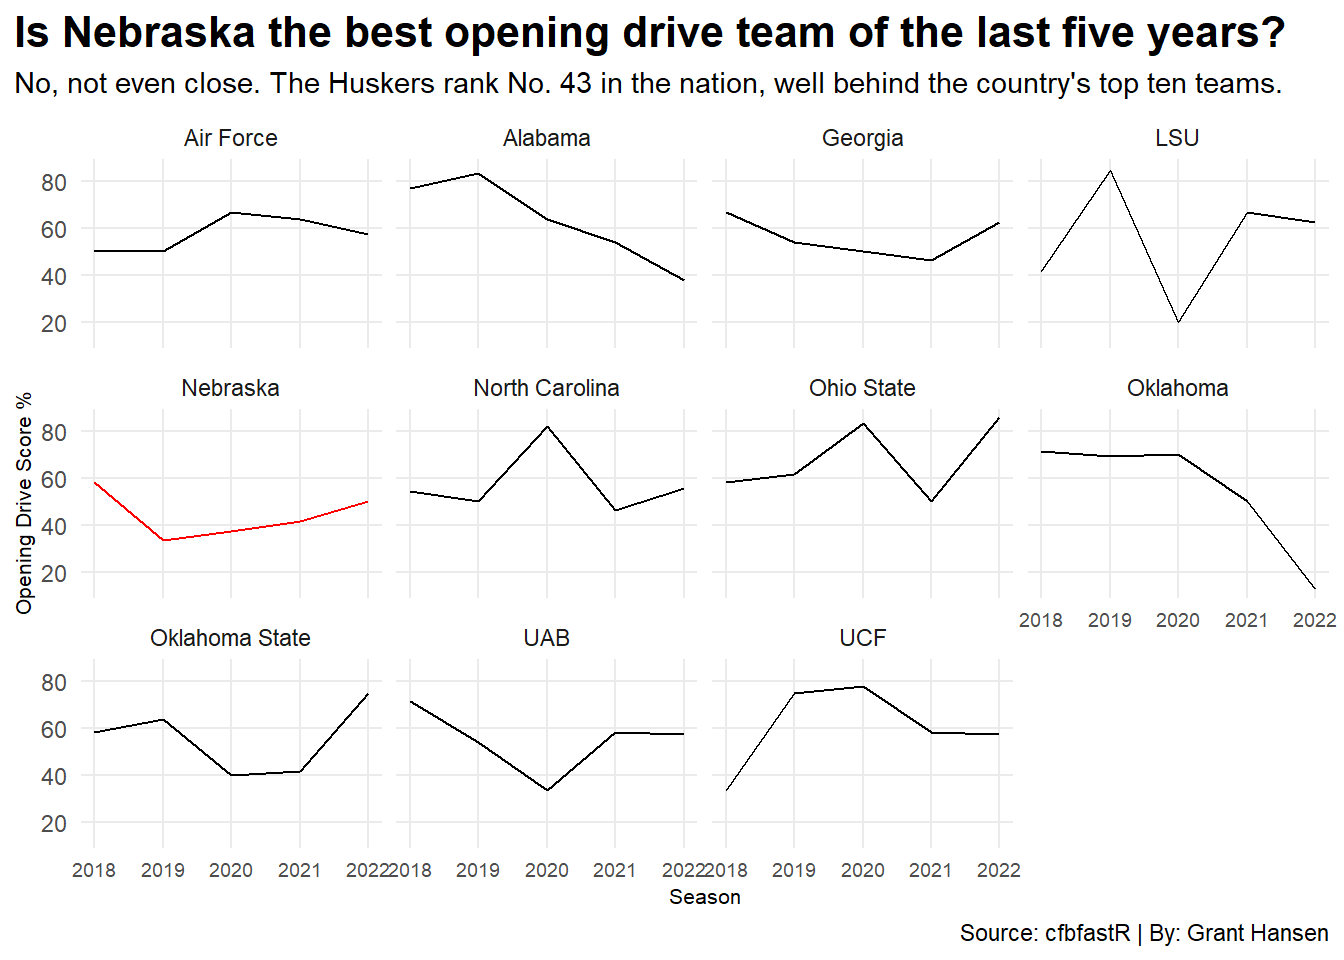
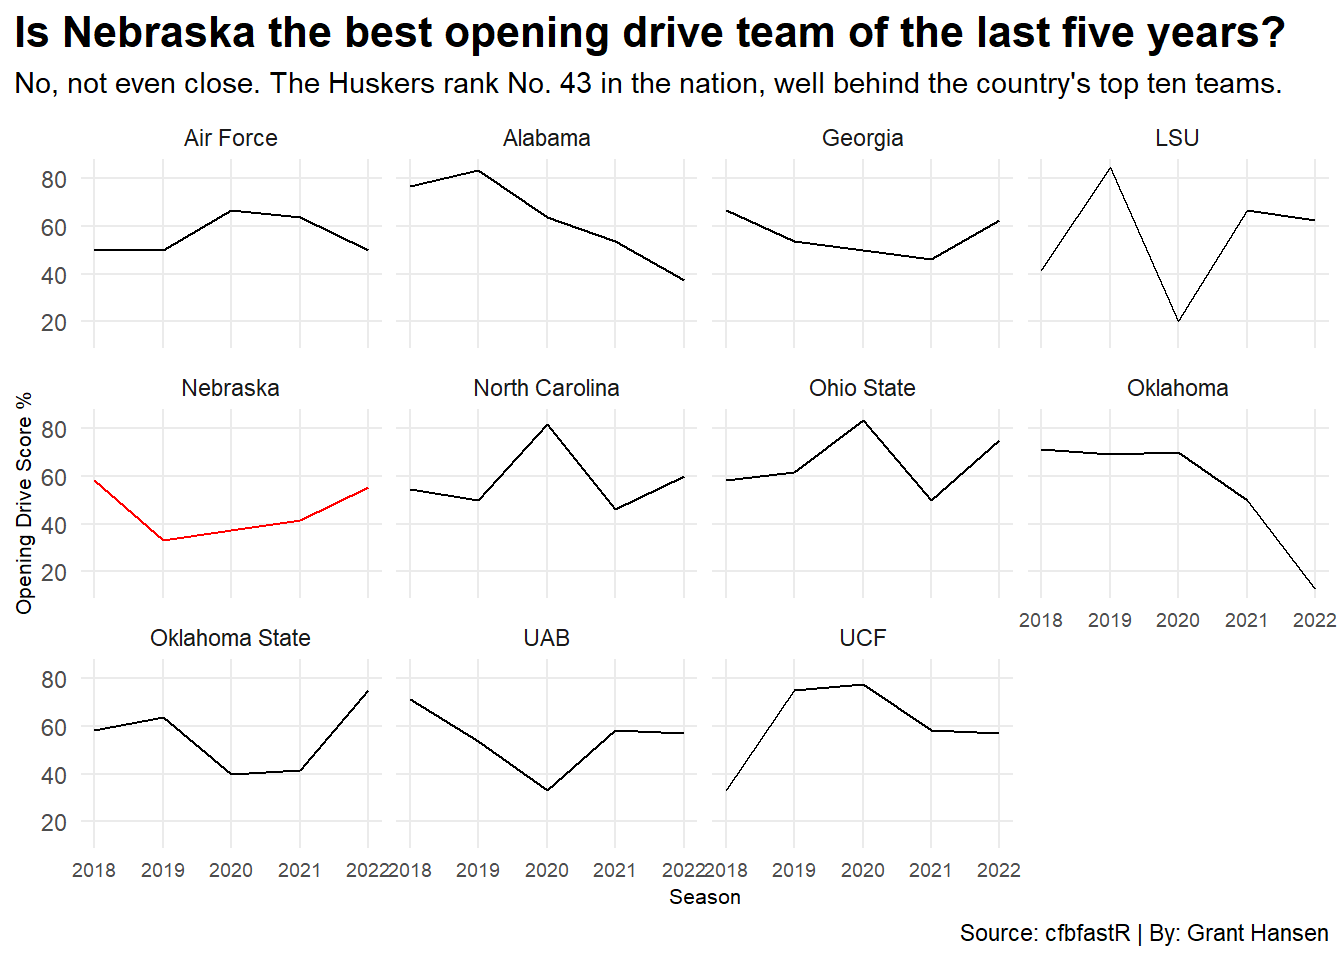
Final Draft Project

diff --git a/posts/the-frost-first-drive-effect/index.html b/posts/the-frost-first-drive-effect/index.html
@@ -206,7 +206,11 @@ code span.wa { color: #60a0b0; font-weight: bold; font-style: italic; } /* Warni
 
 
 
-<p>Test! Scott Frost could really write an opening drive script.</p>
+<p>Nebraska football is incredible on it’s opening drives.</p>
+<p>That’s a statement that likely every Husker fan who has followed the program closely in the last five years would agree with. Who could forget the first drive against Ohio State in 2018? Or the glorious four-play explosion of offense on the opening drive in the 2020 trip to Columbus that was punctuated by a Luke McCaffery 47 yard run? Or perhaps last week’s loss to Minnesota?</p>
+<p>All of these instances have two things in common. Nebraska appeared to be invincible on script. Once the Huskers got off, they couldn’t sustain any momentum. They lost.</p>
+<p>So is the first drive mayhem that was a major piece of the Scott Frost era real? Is it just a myth based in recency bias and dashed expectations?</p>
+<p>Well, the answer is somewhere in between.</p>
 <div class="cell">
 <details>
 <summary>Code</summary>
@@ -288,7 +292,10 @@ code span.wa { color: #60a0b0; font-weight: bold; font-style: italic; } /* Warni
 <p><img src="index_files/figure-html/unnamed-chunk-1-1.png" class="img-fluid" width="672"></p>
 </div>
 </div>
-<p>More text! Look Nebraksa wasn’t as good as we thought! LSU 2019-2020!</p>
+<p>Let’s begin by taking Nebraska’s opening drive score rate throughout the last five years. Any instance of points scored on a team’s first offensive drive counts as an opening drive score (ODS).</p>
+<p>The Huskers are No.&nbsp;43 in the country. Certainly not in the bottom half of the FBS, but not good either. Nebraska isn’t the opening drive juggernaut that they can at times seem to be. That’s especially true when compared to the top ten teams of the last five seasons.</p>
+<p>There are plenty of programs in here that aren’t a surprise such as Alabama and Ohio State. UCF is particularly impressive because of the coaching turnover present in Orlando. It’s also blatantly obvious that LSU suffered a major drop-off from 2019 to 2020 (I wonder why that would be?).</p>
+<p>All in all, the Huskers just aren’t special here despite a great 2018 for opening drive scores.</p>
 <div class="cell">
 <details>
 <summary>Code</summary>
@@ -362,7 +369,11 @@ code span.wa { color: #60a0b0; font-weight: bold; font-style: italic; } /* Warni
 <p><img src="index_files/figure-html/unnamed-chunk-2-1.png" class="img-fluid" width="672"></p>
 </div>
 </div>
-<p>Nebraska is under performing by this metric.</p>
+<p>Let’s check this metric against the most important stat in sports, win percentage.</p>
+<p>It probably doesn’t come as a shock to many to see that Nebraska is underperforming here too. Using the fit line, one could predict that Nebraska should be winning roughly 70% of its games based on its ODS.</p>
+<p>It’s difficult to say if scoring on a first drive is something that good teams do, or something that helps teams win with a higher frequency. The former seems much more likely in this scribe’s opinion. But with everything, there are always outliers.</p>
+<p>Iowa and Michigan are great examples of teams that have struggled mightily on opening drives but continue to win at a high level. San Diego State and Georgia Southern are more extreme examples although they do play in an inferior conference.</p>
+<p>Nebraska is on the opposite side of the chart to those programs. Not good.</p>
 <div class="cell">
 <details>
 <summary>Code</summary>
@@ -450,7 +461,14 @@ code span.wa { color: #60a0b0; font-weight: bold; font-style: italic; } /* Warni
 <p><img src="index_files/figure-html/unnamed-chunk-3-1.png" class="img-fluid" width="672"></p>
 </div>
 </div>
-<p>Nebraska is not doing well here either.</p>
+<p>Let’s take a measurement of Nebraska’s opening drive hangover.</p>
+<p>It’s coming. Everyone in Memorial Stadium can sense it each week. They’ve been conditioned.</p>
+<p>Once Nebraska scores, it takes the Huskers on average 4.3 drives to score again. Adjustment from the script that is practiced throughout the week to the regular course of the game is…difficult. There are three teams that have a worse ODS than Nebraska, but are much more capable of scoring again after a first-drive score. Those teams are Iowa, Michigan and Georgia Southern.</p>
+<p>So, is the Frost Era First Drive Effect real?</p>
+<p>The answer is, yes. Mostly. Nebraska isn’t the best in the country on opening drives but the crash that follows the good openers is very very real.</p>
+<p>By far, Nebraska has scored a touchdown on their opening drive more than any other outcome in the last five seasons. The Huskers have had no issue scoring on the first drive either. That’s great.</p>
+<p>The two most damning numbers are the difference between Nebraska’s ODS and the fit line, and that it takes Nebraska over four drives (almost a quarter) to score again.</p>
+<p>It’s indicative of the failures brought to bear by the Husker coaching staff in the last few years. Failures to support the team off script and failure to adjust.</p>
 
 
 

diff --git a/index.html b/index.html
@@ -7,7 +7,7 @@
 <meta name="viewport" content="width=device-width, initial-scale=1.0, user-scalable=yes">
 
 
-<title>Hansen’s Data Collection - Hansen Blog 2</title>
+<title>Hansen’s Data Collection</title>
 <style>
 code{white-space: pre-wrap;}
 span.smallcaps{font-variant: small-caps;}
@@ -134,7 +134,7 @@ ul.task-list li input[type="checkbox"] {
 <header id="title-block-header" class="quarto-title-block default page-columns page-full">
   <div class="quarto-title-banner page-columns page-full">
     <div class="quarto-title column-page-left">
-      <h1 class="title">Hansen Blog 2</h1>
+      <h1 class="title">Hansen’s Data Collection</h1>
                       </div>
   </div>
     
@@ -164,7 +164,7 @@ ul.task-list li input[type="checkbox"] {
 
 <div class="quarto-listing quarto-listing-container-default" id="listing-listing">
 <div class="list quarto-listing-default">
-<div class="quarto-post image-right" data-index="0" data-categories="huskers,code,analysis" data-listing-date-sort="1667800800000" data-listing-file-modified-sort="1667579618419" data-listing-reading-time-sort="4.335">
+<div class="quarto-post image-right" data-index="0" data-categories="huskers,code,analysis" data-listing-date-sort="1667800800000" data-listing-file-modified-sort="1667686634377" data-listing-reading-time-sort="7.32">
 <div class="thumbnail">
 <p><a href="./posts/the-frost-first-drive-effect/index.html"> <img src="./posts/the-frost-first-drive-effect/image.png" class="thumnail-image"> </a></p>
 </div>
@@ -190,7 +190,7 @@ analysis
 </div>
 <a href="./posts/the-frost-first-drive-effect/index.html">
 <div class="listing-description">
-Test! Scott Frost could really write an opening drive script.
+Nebraska football is incredible on it’s opening drives.
 </div>
 </a>
 </div>
